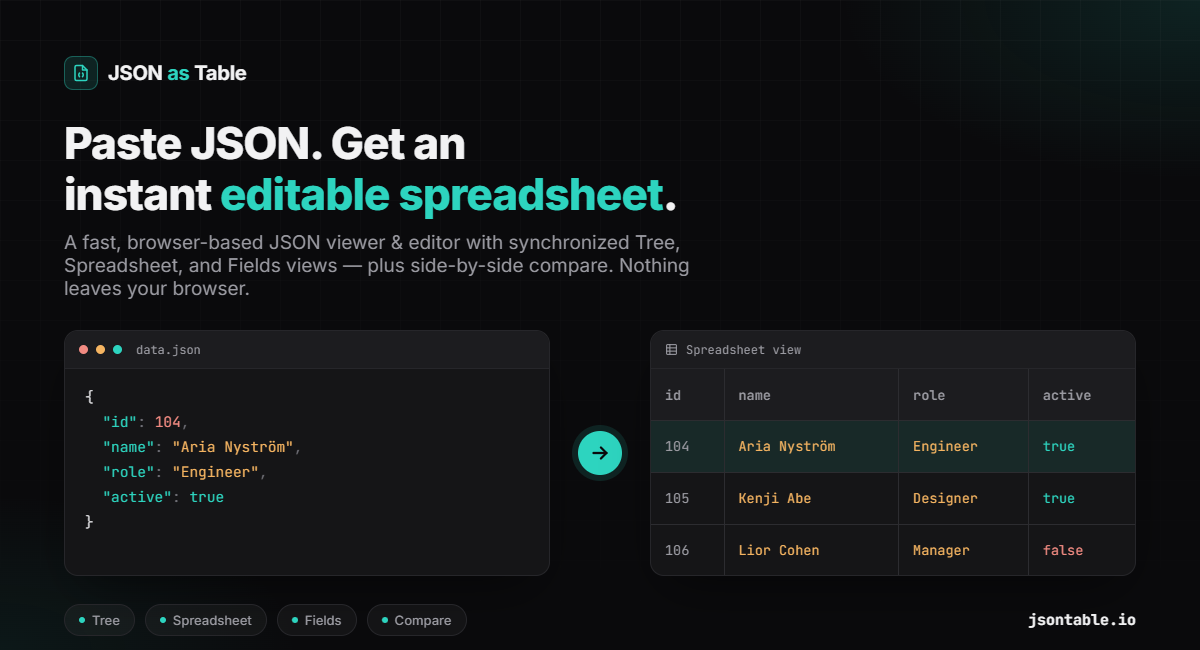
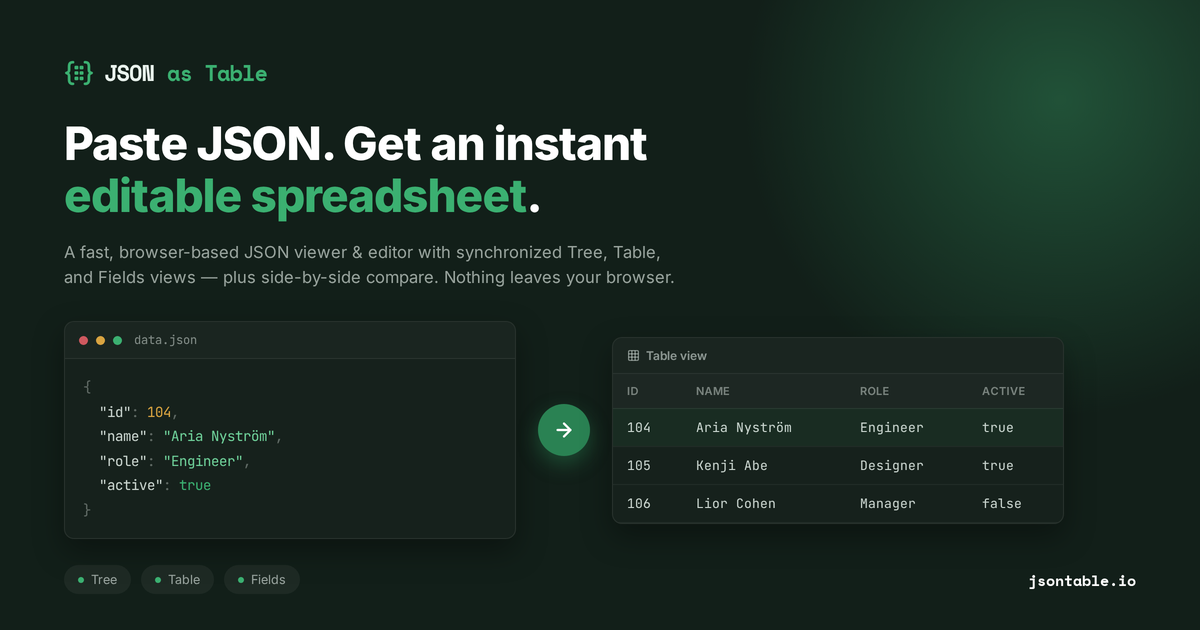
Update stying and social.

diff --git a/src/index.css b/src/index.css
@@ -6,7 +6,7 @@
 
 @layer base {
   :root {
-    --background: 144 31% 94%;
+    --background: 0 0% 100%;
     --foreground: 152 27% 10%;
 
     --card: 0 0% 100%;
@@ -41,7 +41,7 @@
     --grid-cell-active: 148 51% 34%;
     --grid-line: 147 18% 86%;
 
-    --sidebar-background: 144 31% 94%;
+    --sidebar-background: 0 0% 100%;
     --sidebar-foreground: 152 27% 10%;
     --sidebar-primary: 148 51% 34%;
     --sidebar-primary-foreground: 0 0% 100%;
